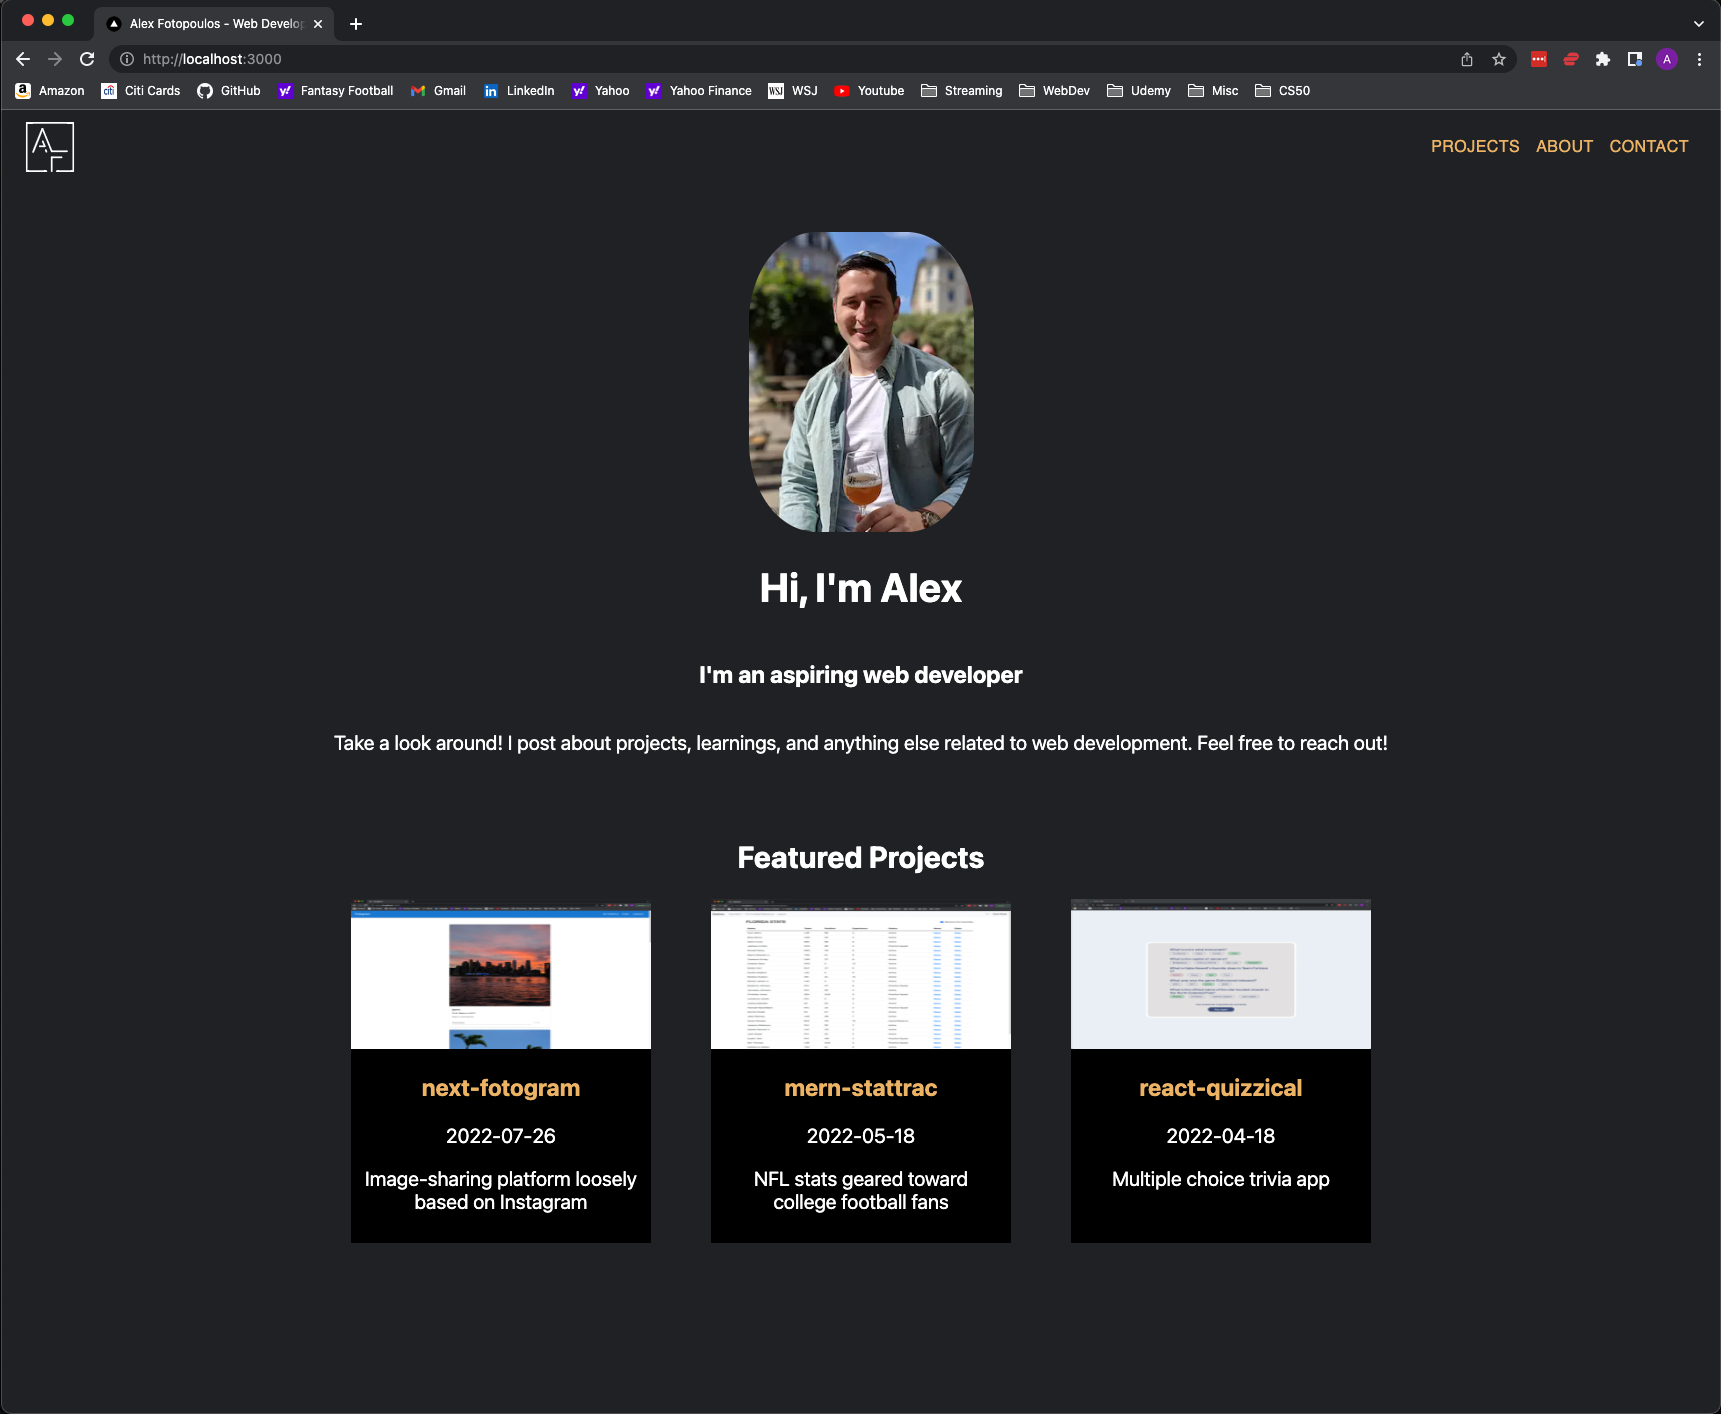
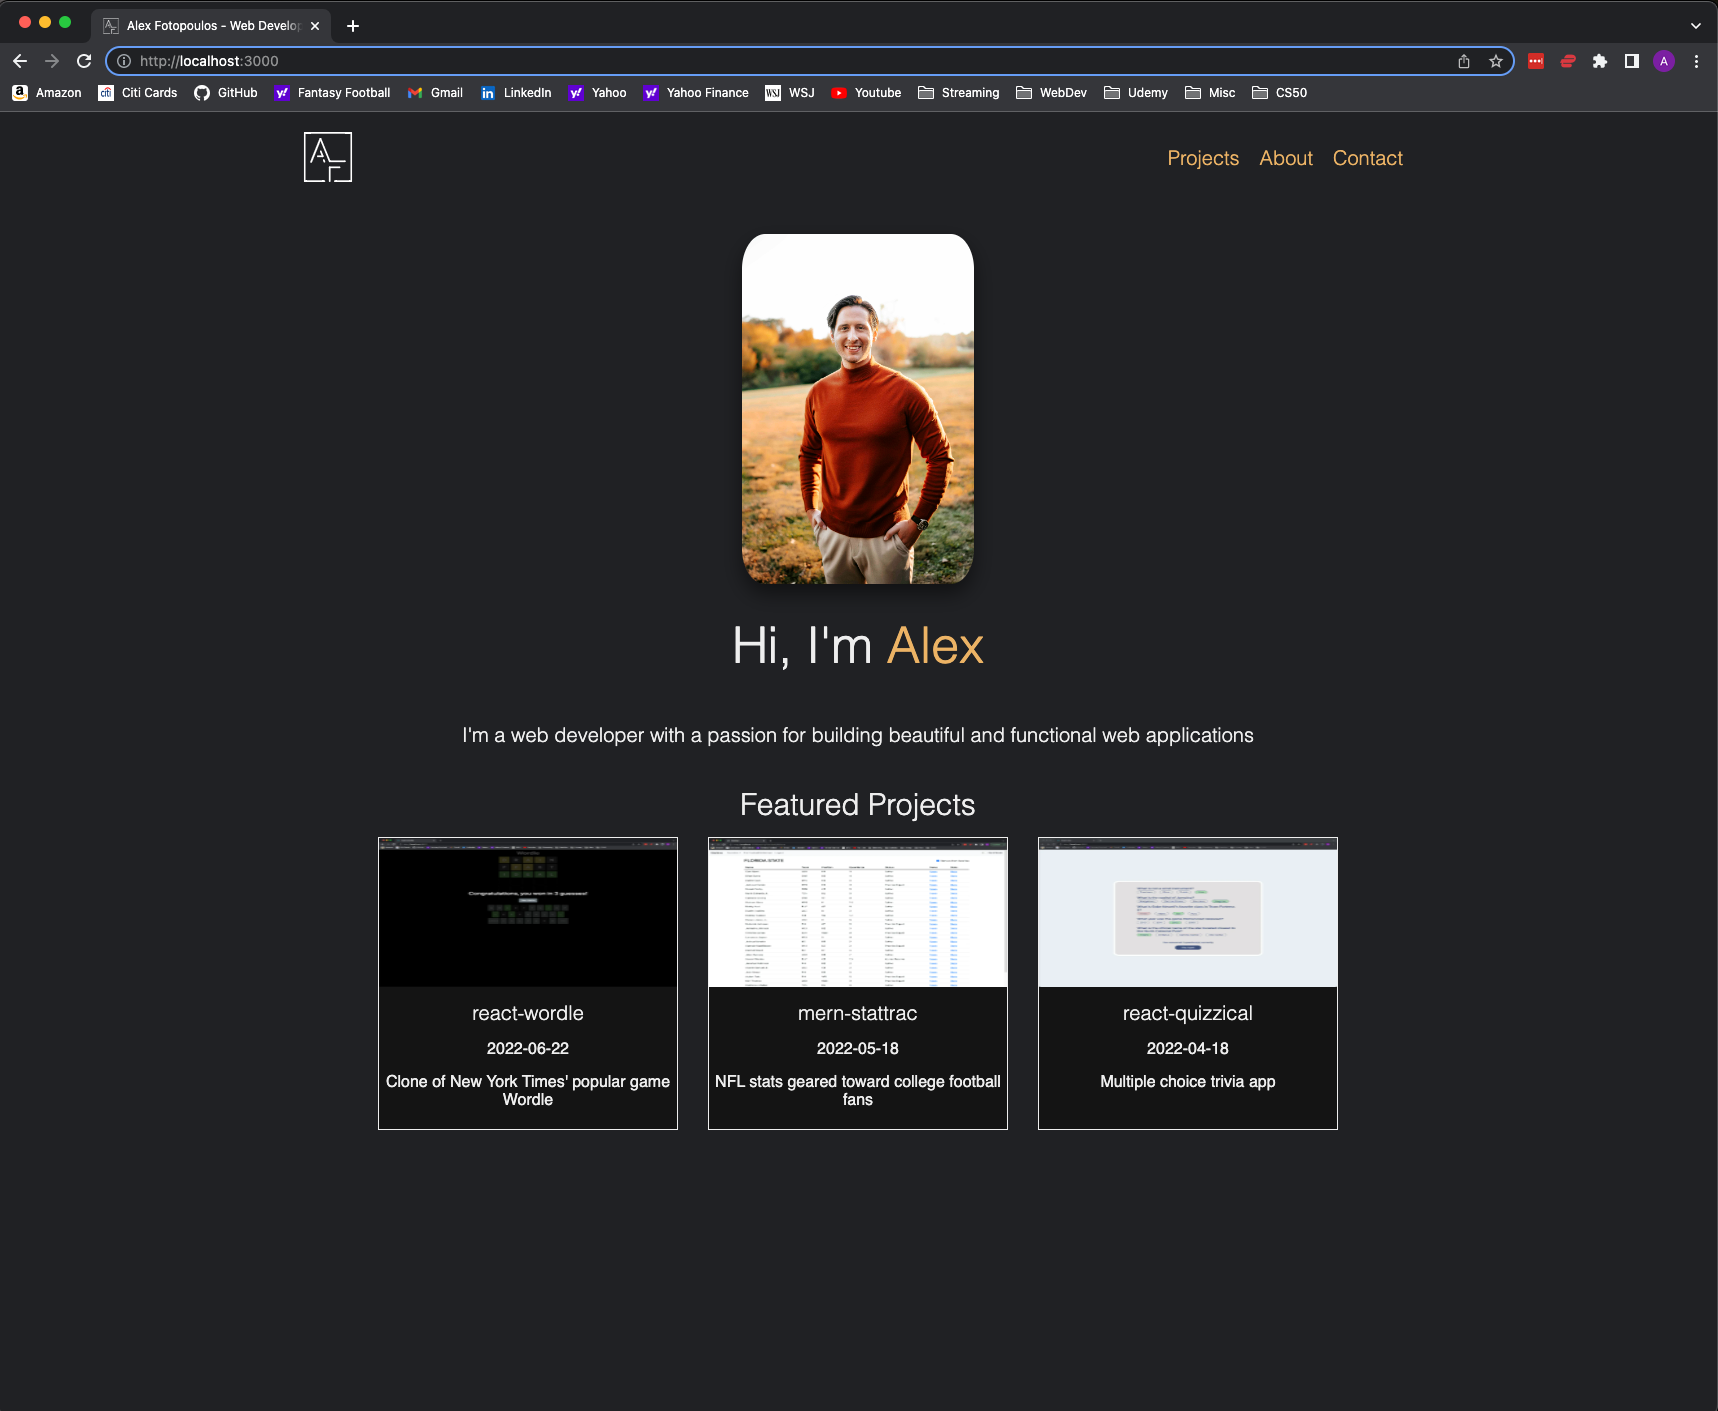
first round of changes based on user feedback (mods of projects and about me and replacing personal-site image)

diff --git a/pages/about.js b/pages/about.js
@@ -9,11 +9,11 @@ export default function AboutPage() {
             <div>
                 <h2 className="heading-secondary u-margin-bottom-small u-margin-top-small">My Coding Journey</h2>
                 <p>
-                    I'd always been interested in understanding how computers and technology worked. When I first saw code on a computer screen, I was captivated by it. It looked so cryptic, but I knew every line of code was logical and intentional. In 2019, I signed up for a beginners Python course which taught me basic programming topics. I chose Python as the use of white space made it more readable as a beginner taking their first steps into the coding universe.
+                    I've always been interested in understanding how computers and technology worked. When I first saw code on a computer screen, I was captivated by it. It looked so cryptic, but I knew every line of code was logical and intentional. In 2019, I signed up for a beginners Python course which taught me basic programming topics. Python's use of white space made it more readable for a beginner taking their first steps into the coding universe.
                 </p>
                 <br />
                 <p>
-                    I progressed through the course, and at a certain point, I knew enough to write a small script for a game of Hangman played at the command line. After a couple of days, I had it working. Though it was a small project consisting of a single file, I felt such satisfaction that I was able to create something on my own. I knew then that development was something I could pursue professionally one day.
+                    I progressed through the course, and at a certain point, knew enough to write a small script for a game of Hangman played at the command line. After a couple of days, it was working. Though it was a small project consisting of a single file, being able to create something on my own brought such satisfaction. I knew then that development was something I could pursue professionally one day.
                 </p>
                 <br />
                 <p>

diff --git a/components/allProjectspage/ProjectPreview.module.scss b/components/allProjectspage/ProjectPreview.module.scss
@@ -30,12 +30,16 @@
     cursor: pointer;
 }
 
+.imgContainer {
+    width: 40%;
+    overflow: hidden;
+}
+
 .img {
-    width: 35rem;
-    object-fit: cover;
+    width: 100%;
 }
 
-@include respond(phone) {
+@include respond(tab-port) {
     .project {
         width: 35.1rem;
         margin: auto;
@@ -49,28 +53,7 @@
         padding: 0 1rem;
     }
 
-    .img {
-        width: 34.8rem;
-        object-fit: cover;
-    }
-}
-
-@include respond(small-phone) {
-    .project {
-        width: 35.1rem;
-        margin: auto;
-        margin-bottom: $margin-bottom-medium;
-        padding-bottom: 0.5rem;
-        display: block;
-        height: auto;
-    }
-
-    .projectDetails {
-        padding: 0 1rem;
-    }
-
-    .img {
-        width: 33.3rem;
-        object-fit: cover;
+    .imgContainer {
+        width: 100%;
     }
 }

diff --git a/components/allProjectspage/ProjectPreview.js b/components/allProjectspage/ProjectPreview.js
@@ -11,7 +11,9 @@ export default function Project(props) {
     return (
         <Link href={`/projects/${slug}`}>
             <div className={styles.project}>
+                <div className={styles.imgContainer}>
                 <img className={styles.img} src={imagePath} alt={`image of ${title}`} />
+                </div>
                 <div className={styles.projectDetails}>
                     <h3 className="heading-tertiary u-margin-bottom-small u-margin-top-small">{title}</h3>
                     <p className="u-margin-bottom-small">{date}</p>
